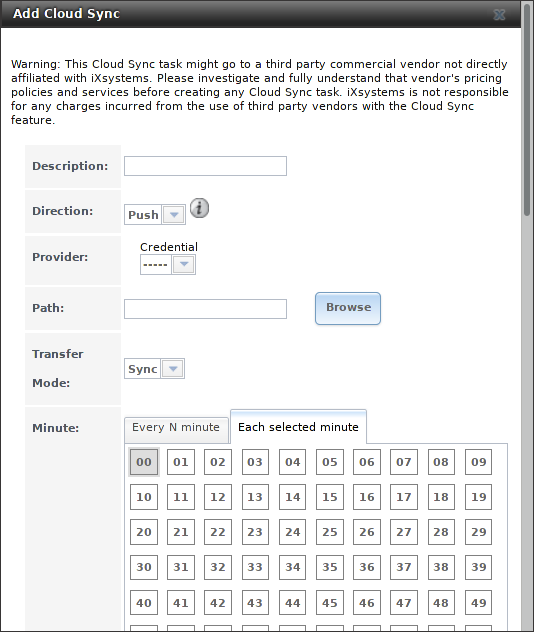
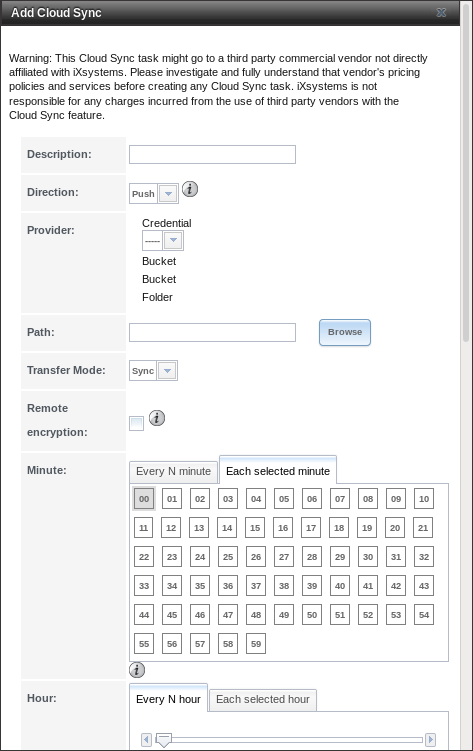
NAS-101771: Review tasks.rst for TrueNAS 11.2-U4.1 Changes are broken down by section. Cloud Sync: - remove ifdefs for fields that are now also visible in TrueNAS. - adjust example to reflect uploading a dataset, not a single file. - Update images cloudsync-example-cropped and tn_tasks-cloudsync Cro
TrueNAS HTML build testing: no issues.

diff --git a/userguide/tasks.rst b/userguide/tasks.rst
@@ -97,7 +97,7 @@ shows the configuration options for Cloud Syncs.
    |                        | menu                | The UI tests the credential and displays an error if a connection cannot be made.                      |
    |                        |                     |                                                                                                        |
    +------------------------+---------------------+--------------------------------------------------------------------------------------------------------+
-   | Amazon S3              | drop-down           | Only appears when an S3 credential is the *Provider*.                                                  |
+   | Amazon S3              | drop-down           | Only appears when a valid S3 credential is the *Provider*.                                             |
    | Buckets                | menu                | Select the pre-defined S3 bucket to use.                                                               |
    +------------------------+---------------------+--------------------------------------------------------------------------------------------------------+
    | Folder                 | string              | Only appears when an S3 credential is the *Provider*.                                                  |
@@ -249,14 +249,13 @@ The credential is given the name *S3 Storage*, as shown in
    Example: Adding Cloud Credentials
 
 
-The local data to be sent to the cloud is a single file called
-:file:`accounting-backup.bin` on the :file:`smb-storage` dataset. A
-cloud sync job is created with
+The local data to be sent to the cloud is in a dataset called
+:file:`acctg-backups`. The cloud sync task is created by going to
 :menuselection:`Tasks --> Cloud Sync --> Add Cloud Sync`.
 The :guilabel:`Description` is set to *backup-acctg* to describe the
 job. This data is being sent to cloud storage, so this is a *Push*.
-The provider comes from the cloud credentials defined in the previous
-step, and the destination bucket *cloudsync-bucket* is selected.
+The :guilabel:`Provider` comes from the cloud credentials defined in the
+previous step, and the destination bucket *cloudsync-bucket* is selected.
 
 The :guilabel:`Path` to the data file is selected.
 
@@ -668,10 +667,13 @@ In this example:
 * the :guilabel:`Path` points to :file:`/usr/local/images`, the
   directory to be copied
 
+* the :guilabel:`User` is set to *root* so it has permission to write
+  anywhere
+
 * the :guilabel:`Remote Host` points to *192.168.2.6*, the IP address
   of the rsync server
 
-* the :guilabel:`Rsync Mode` is *Rsync module*
+* the :guilabel:`Rsync mode` is *Rsync module*
 
 * the :guilabel:`Remote Module Name` is *backups*; this will need to
   be defined on the rsync server
@@ -680,10 +682,7 @@ In this example:
 
 * the rsync is scheduled to occur every 15 minutes
 
-* the :guilabel:`User` is set to *root* so it has permission to write
-  anywhere
-
-* the :guilabel:`Preserve Permissions` option is enabled so that the
+* the :guilabel:`Preserve permissions` option is enabled so that the
   original permissions are not overwritten by the *root* user
 
 On *PULL*, an rsync module is defined in
@@ -704,7 +703,7 @@ In this example:
   the rsync client
 
 Descriptions of the configurable options can be found in
-`Rsync Modules`.
+:ref:`Rsync Modules`.
 
 To finish the configuration, start the rsync service on *PULL* in
 :menuselection:`Services --> Control Services`.
@@ -771,14 +770,14 @@ meant to be used for an automated task.
 for more information.
 
 .. note:: If a different user account is used for the rsync task, use
-   the :command:`su -` command after mounting the filesystem but
+   the :command:`su` command after mounting the filesystem but
    before generating the key. For example, if the rsync task is
    configured to use the *user1* user account, use this command to
    become that user:
 
    .. code-block:: none
 
-    su - user1
+    su user1
 
 
 Next, view and copy the contents of the generated public key:
@@ -795,8 +794,7 @@ Next, view and copy the contents of the generated public key:
 
 Go to *PULL* and paste (or append) the copied key into the
 :guilabel:`SSH Public Key` field of
-:menuselection:`Account --> Users --> View Users --> root
---> Modify User`,
+:menuselection:`Account --> Users --> View Users --> root --> Modify User`,
 or the username of the specified rsync user account. The paste for the
 above example is shown in
 :numref:`Figure %s <tasks_pasting_sshkey_fig>`.
@@ -839,16 +837,16 @@ mode using the systems in the previous example, use this configuration:
 * the :guilabel:`Path` points to :file:`/mnt/local/images`, the
   directory to be copied
 
+* the :guilabel:`User` is set to *root* so it has permission to write
+  anywhere; the public key for this user must be generated on *PUSH*
+  and copied to *PULL*
+
 * the :guilabel:`Remote Host` points to *192.168.2.6*, the IP address
   of the rsync server
 
 * the :guilabel:`Rsync Mode` is *Rsync over SSH*
 
 * the rsync is scheduled to occur every 15 minutes
-
-* the :guilabel:`User` is set to *root* so it has permission to write
-  anywhere; the public key for this user must be generated on *PUSH*
-  and copied to *PULL*
 
 * the :guilabel:`Preserve Permissions` option is enabled so that the
   original permissions are not overwritten by the *root* user
